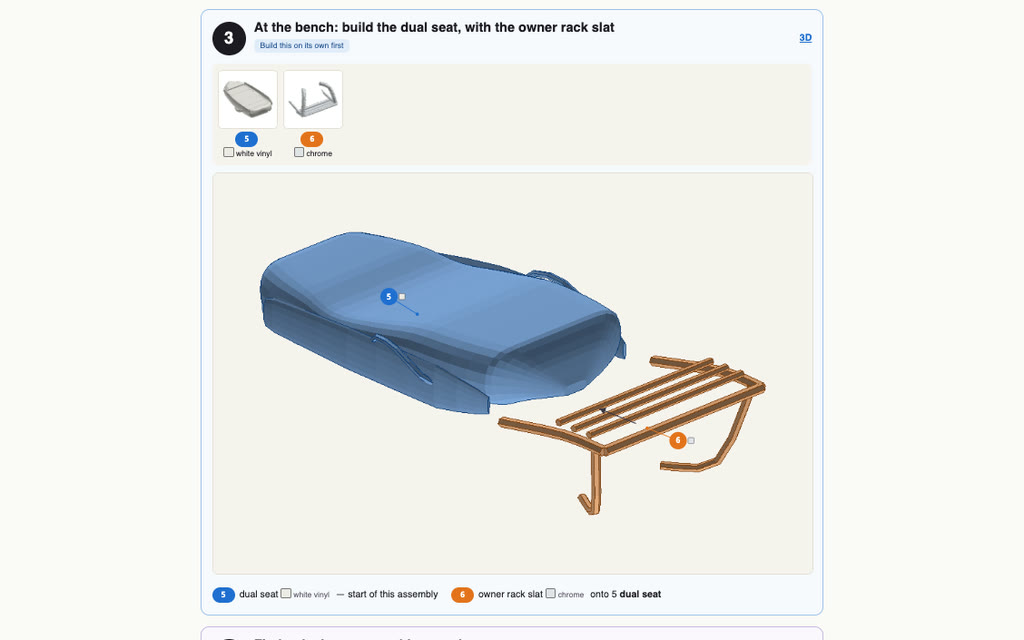
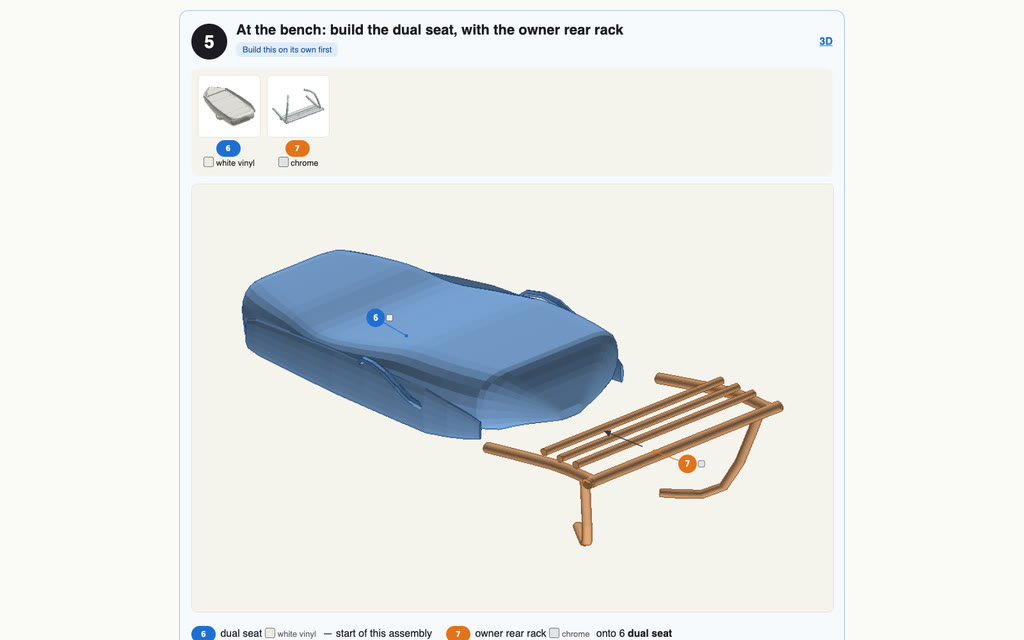
Vespa kit: the badge carrier moulded with its bars; kit plans name pieces
The Vespa's rebuilt badge carrier is held only by the two legshield bars,
so its kit left it loose; the plan now moulds it with them, and each cowl
with the lower return it lifts with: 28 pieces on 2 plates in 22 steps,
the same two loose receivers as before. A kit plan can now name a merged
piece (`names`): the Vespa's owner parts share only the word "owner", so
the booklet read "build the dual seat, with the owner". The kit's guide
and booklet pictures and the docs' counts follow.

diff --git a/construct_hologram/kit.py b/construct_hologram/kit.py
@@ -48,7 +48,7 @@ SLIVER_MM = 1.5          # thinner than this, a small piece is a chip and a long
 CHIP_MM = 6.0            # a bit the trimming cuts off a part (a rail's end standing proud of the leg it passes
                          # through), under this on every side, is moulded with the piece that cut it off
 FRAGILE_MM = 2.0         # thinner than this, a piece (chrome, trim) goes on with the details, last
-PLAN_KEYS = {"title", "merge", "keep", "clear", "opaque", "order", "notes"}
+PLAN_KEYS = {"title", "merge", "keep", "clear", "opaque", "order", "names", "notes"}
 
 
 CRITIC = """You are an experienced designer of plastic model kits (Revell, Tamiya), reviewing a kit that Construct
@@ -189,11 +189,19 @@ def load_plan(plan):
     if not all(isinstance(g, dict) and isinstance(g.get("name"), str) and isinstance(g.get("parts"), list)
                for g in doc.get("order", [])):
         raise KitError('plan.order: a list of sub-assemblies, each {"name": "...", "parts": [ids or patterns]}')
+    names = doc.get("names", {})
+    if not isinstance(names, dict) or not all(isinstance(k, str) and isinstance(v, str)
+                                              and re.fullmatch(r"[a-z0-9][a-z0-9-]*", v) for k, v in names.items()):
+        raise KitError('plan.names: {"part id or pattern": "piece-name"}, each name in lowercase words joined by "-"')
     return doc
 
 
 def _matches(pid, patterns):
     return any(fnmatch.fnmatchcase(pid, p) for p in patterns)
+
+
+def _matches_any(pids, pattern):
+    return any(fnmatch.fnmatchcase(pid, pattern) for pid in pids)
 
 
 # ---------------------------------------------------------------------------- making the kit
@@ -297,8 +305,11 @@ def make(scene, scale=SCALE, size=None, detail=DETAIL_MM, wall=WALL_MM, plan=Non
         for comp in comps:   # a merge that falls apart: each bit named for the part it mostly is; one that holds
             mem = members_of[pid]   # together, for what its parts are together ("side-west-*": the side west)
             inside = [m for m in mem if any(mm & own_vox[m].get(c, 0) for c, mm in comp.items())]
-            names.append(pid if len(mem) == 1 else _common(inside) if len(comps) == 1 and _common(inside) else
-                         max(mem, key=lambda m: sum(bin(mm & own_vox[m].get(c, 0)).count("1") for c, mm in comp.items())))
+            # the plan's own name for a piece holding one of its parts ("owner-rear-rack": what the ids share is
+            # only "owner"), else the parts' own
+            named = next((nm for pat, nm in plan.get("names", {}).items() if _matches_any(inside or mem, pat)), None)
+            names.append(named or (pid if len(mem) == 1 else _common(inside) if len(comps) == 1 and _common(inside) else
+                         max(mem, key=lambda m: sum(bin(mm & own_vox[m].get(c, 0)).count("1") for c, mm in comp.items()))))
         for k, comp in enumerate(comps):
             same = names.count(names[k])
             nth = names[:k + 1].count(names[k])

diff --git a/hermes/construct/_vendor/construct_hologram/kit.py b/hermes/construct/_vendor/construct_hologram/kit.py
@@ -48,7 +48,7 @@ SLIVER_MM = 1.5          # thinner than this, a small piece is a chip and a long
 CHIP_MM = 6.0            # a bit the trimming cuts off a part (a rail's end standing proud of the leg it passes
                          # through), under this on every side, is moulded with the piece that cut it off
 FRAGILE_MM = 2.0         # thinner than this, a piece (chrome, trim) goes on with the details, last
-PLAN_KEYS = {"title", "merge", "keep", "clear", "opaque", "order", "notes"}
+PLAN_KEYS = {"title", "merge", "keep", "clear", "opaque", "order", "names", "notes"}
 
 
 CRITIC = """You are an experienced designer of plastic model kits (Revell, Tamiya), reviewing a kit that Construct
@@ -189,11 +189,19 @@ def load_plan(plan):
     if not all(isinstance(g, dict) and isinstance(g.get("name"), str) and isinstance(g.get("parts"), list)
                for g in doc.get("order", [])):
         raise KitError('plan.order: a list of sub-assemblies, each {"name": "...", "parts": [ids or patterns]}')
+    names = doc.get("names", {})
+    if not isinstance(names, dict) or not all(isinstance(k, str) and isinstance(v, str)
+                                              and re.fullmatch(r"[a-z0-9][a-z0-9-]*", v) for k, v in names.items()):
+        raise KitError('plan.names: {"part id or pattern": "piece-name"}, each name in lowercase words joined by "-"')
     return doc
 
 
 def _matches(pid, patterns):
     return any(fnmatch.fnmatchcase(pid, p) for p in patterns)
+
+
+def _matches_any(pids, pattern):
+    return any(fnmatch.fnmatchcase(pid, pattern) for pid in pids)
 
 
 # ---------------------------------------------------------------------------- making the kit
@@ -297,8 +305,11 @@ def make(scene, scale=SCALE, size=None, detail=DETAIL_MM, wall=WALL_MM, plan=Non
         for comp in comps:   # a merge that falls apart: each bit named for the part it mostly is; one that holds
             mem = members_of[pid]   # together, for what its parts are together ("side-west-*": the side west)
             inside = [m for m in mem if any(mm & own_vox[m].get(c, 0) for c, mm in comp.items())]
-            names.append(pid if len(mem) == 1 else _common(inside) if len(comps) == 1 and _common(inside) else
-                         max(mem, key=lambda m: sum(bin(mm & own_vox[m].get(c, 0)).count("1") for c, mm in comp.items())))
+            # the plan's own name for a piece holding one of its parts ("owner-rear-rack": what the ids share is
+            # only "owner"), else the parts' own
+            named = next((nm for pat, nm in plan.get("names", {}).items() if _matches_any(inside or mem, pat)), None)
+            names.append(named or (pid if len(mem) == 1 else _common(inside) if len(comps) == 1 and _common(inside) else
+                         max(mem, key=lambda m: sum(bin(mm & own_vox[m].get(c, 0)).count("1") for c, mm in comp.items()))))
         for k, comp in enumerate(comps):
             same = names.count(names[k])
             nth = names[:k + 1].count(names[k])

diff --git a/skills/construct/scripts/construct_hologram/kit.py b/skills/construct/scripts/construct_hologram/kit.py
@@ -48,7 +48,7 @@ SLIVER_MM = 1.5          # thinner than this, a small piece is a chip and a long
 CHIP_MM = 6.0            # a bit the trimming cuts off a part (a rail's end standing proud of the leg it passes
                          # through), under this on every side, is moulded with the piece that cut it off
 FRAGILE_MM = 2.0         # thinner than this, a piece (chrome, trim) goes on with the details, last
-PLAN_KEYS = {"title", "merge", "keep", "clear", "opaque", "order", "notes"}
+PLAN_KEYS = {"title", "merge", "keep", "clear", "opaque", "order", "names", "notes"}
 
 
 CRITIC = """You are an experienced designer of plastic model kits (Revell, Tamiya), reviewing a kit that Construct
@@ -189,11 +189,19 @@ def load_plan(plan):
     if not all(isinstance(g, dict) and isinstance(g.get("name"), str) and isinstance(g.get("parts"), list)
                for g in doc.get("order", [])):
         raise KitError('plan.order: a list of sub-assemblies, each {"name": "...", "parts": [ids or patterns]}')
+    names = doc.get("names", {})
+    if not isinstance(names, dict) or not all(isinstance(k, str) and isinstance(v, str)
+                                              and re.fullmatch(r"[a-z0-9][a-z0-9-]*", v) for k, v in names.items()):
+        raise KitError('plan.names: {"part id or pattern": "piece-name"}, each name in lowercase words joined by "-"')
     return doc
 
 
 def _matches(pid, patterns):
     return any(fnmatch.fnmatchcase(pid, p) for p in patterns)
+
+
+def _matches_any(pids, pattern):
+    return any(fnmatch.fnmatchcase(pid, pattern) for pid in pids)
 
 
 # ---------------------------------------------------------------------------- making the kit
@@ -297,8 +305,11 @@ def make(scene, scale=SCALE, size=None, detail=DETAIL_MM, wall=WALL_MM, plan=Non
         for comp in comps:   # a merge that falls apart: each bit named for the part it mostly is; one that holds
             mem = members_of[pid]   # together, for what its parts are together ("side-west-*": the side west)
             inside = [m for m in mem if any(mm & own_vox[m].get(c, 0) for c, mm in comp.items())]
-            names.append(pid if len(mem) == 1 else _common(inside) if len(comps) == 1 and _common(inside) else
-                         max(mem, key=lambda m: sum(bin(mm & own_vox[m].get(c, 0)).count("1") for c, mm in comp.items())))
+            # the plan's own name for a piece holding one of its parts ("owner-rear-rack": what the ids share is
+            # only "owner"), else the parts' own
+            named = next((nm for pat, nm in plan.get("names", {}).items() if _matches_any(inside or mem, pat)), None)
+            names.append(named or (pid if len(mem) == 1 else _common(inside) if len(comps) == 1 and _common(inside) else
+                         max(mem, key=lambda m: sum(bin(mm & own_vox[m].get(c, 0)).count("1") for c, mm in comp.items()))))
         for k, comp in enumerate(comps):
             same = names.count(names[k])
             nth = names[:k + 1].count(names[k])

diff --git a/construct_hologram/test_printing.py b/construct_hologram/test_printing.py
@@ -435,6 +435,19 @@ class Kit(unittest.TestCase):
         shell = next(p for p in k["pieces"] if "shell" in p["parts"])
         self.assertEqual(shell["stage"], 1)   # the shell's, not the small tower's earlier stage
 
+    def test_a_plan_names_a_merged_piece_whose_parts_share_only_a_word(self):
+        # found on the Vespa's kit: the owner's rack and stays merged, and the piece was named "owner"
+        sc = scene_of(box("body", [0.2, 0.05, 0.1], [0, 0.025, 0]),
+                      box("owner-rear-rack", [0.1, 0.01, 0.04], [0, 0.055, 0]),
+                      box("owner-rack-slat-0", [0.1, 0.01, 0.01], [0, 0.065, 0]))
+        plan = {"merge": [["owner-rear-rack", "owner-rack-*"]]}
+        rack = lambda k: next(p for p in k["pieces"] if "owner-rear-rack" in p["parts"])
+        self.assertEqual(rack(kit_mod.make(sc, size=100, detail=0.5, plan=plan))["name"], "owner")
+        named = dict(plan, names={"owner-rear-rack": "owner-rear-rack"})
+        self.assertEqual(rack(kit_mod.make(sc, size=100, detail=0.5, plan=named))["name"], "owner-rear-rack")
+        with self.assertRaises(kit_mod.KitError):
+            kit_mod.make(sc, size=100, detail=0.5, plan=dict(plan, names={"owner-rear-rack": "The Rack"}))
+
     def test_the_fit_names_what_pokes_through_and_what_is_buried_not_what_is_set_in(self):
         from . import fit
         sc = scene_of(box("body", [0.2, 0.1, 0.1], [0, 0.05, 0]),

diff --git a/docs/for/a-kit-of-your-own.md b/docs/for/a-kit-of-your-own.md
@@ -6,9 +6,9 @@ or the ChatGPT app does the work ([how to set it up](in-the-apps.md)).
 
 <p align="center">
   <a href="https://rtmandreyev.github.io/construct/examples/vespa-gs150/kit/assembly.html"><img src="../media/kit-vespa-guide.gif" width="49%" alt="The Vespa kit's 3D guide stepping through its build: the body first, the seat and rack at the bench, then the wheels, fork and cowls"></a>
-  <a href="https://rtmandreyev.github.io/construct/examples/vespa-gs150/kit/booklet.html"><img src="../media/kit-vespa-booklet.jpg" width="49%" alt="Step 3 of the Vespa kit's booklet: the dual seat built at the bench with the owner's rack slat, each piece numbered and painted"></a>
+  <a href="https://rtmandreyev.github.io/construct/examples/vespa-gs150/kit/booklet.html"><img src="../media/kit-vespa-booklet.jpg" width="49%" alt="Step 5 of the Vespa kit's booklet: the dual seat built at the bench with the owner's rear rack, each piece numbered and painted"></a>
 </p>
-<p align="center"><sub>The <a href="https://rtmandreyev.github.io/construct/examples/vespa-gs150/">Vespa from <i>your vehicle</i></a> as a 1:12 kit: 30 pieces on 3 plates, 21 steps, 157 mm long.
+<p align="center"><sub>The <a href="https://rtmandreyev.github.io/construct/examples/vespa-gs150/">Vespa from <i>your vehicle</i></a> as a 1:12 kit: 28 pieces on 2 plates, 22 steps, 157 mm long.
 The 3D guide (left) and a page of the booklet (right). Open them yourself: <a href="https://rtmandreyev.github.io/construct/examples/vespa-gs150/kit/assembly.html">the kit in 3D</a> and <a href="https://rtmandreyev.github.io/construct/examples/vespa-gs150/kit/booklet.html">its booklet</a>.</sub></p>
 
 ## Our example, start to finish
@@ -38,8 +38,8 @@ rack and the wheels at the bench, the cowls hung last. The plan it wrote is
 [kit-plan.json](../../examples/vespa-gs150/kit-plan.json). Its checks leave a few notes for the builder, said in the
 booklet: some joints with a gap under a millimetre (a drop of glue fills them), two small cowl tabs to fit after the
 cowls, and a few specks too small to print, left off. (Since the owner's bars were rebuilt as continuous tubes in
-1.2.1, the same plan makes 30 pieces on 3 plates in 21 steps; the badge carrier, now held only by the legshield bars
-that lift with the cowls, and the spare-wheel cowl's lower return come as loose pieces to glue in place.)
+1.2.1, the plan moulds the badge carrier with the two legshield bars it is fixed to, and each cowl with its lower
+return, and names those pieces: 28 pieces on 2 plates in 22 steps.)
 
 **What you get:** `booklet.html` (open it and print it), `assembly.html` (the steps in 3D, turn them in your
 browser), and a `.3mf` file per plate for your printer's software (PrusaSlicer, Bambu Studio, Cura), plus every
@@ -64,7 +64,7 @@ Every kit here, to open in your browser or print:
 | Yamaha CFX piano, 1:12 | 54 | [open](https://rtmandreyev.github.io/construct/examples/yamaha-cfx/kit/assembly.html) | [open](https://rtmandreyev.github.io/construct/examples/yamaha-cfx/kit/booklet.html) | [.zip](https://github.com/rtmandreyev/construct/releases/latest/download/construct-kit-yamaha-cfx.zip) |
 | Tompion's year-going clock, 1:12 | 34 | [open](https://rtmandreyev.github.io/construct/examples/tompion-year-going-clock/kit/assembly.html) | [open](https://rtmandreyev.github.io/construct/examples/tompion-year-going-clock/kit/booklet.html) | [.zip](https://github.com/rtmandreyev/construct/releases/latest/download/construct-kit-tompion-year-going-clock.zip) |
 | VW T1 Samba bus, 1:16 | 98 | [open](https://rtmandreyev.github.io/construct/examples/volkswagen-t1-samba/kit/assembly.html) | [open](https://rtmandreyev.github.io/construct/examples/volkswagen-t1-samba/kit/booklet.html) | [.zip](https://github.com/rtmandreyev/construct/releases/latest/download/construct-kit-volkswagen-t1-samba.zip) |
-| Vespa GS 150, an owner's scooter, 1:12 | 30 | [open](https://rtmandreyev.github.io/construct/examples/vespa-gs150/kit/assembly.html) | [open](https://rtmandreyev.github.io/construct/examples/vespa-gs150/kit/booklet.html) | [.zip](https://github.com/rtmandreyev/construct/releases/latest/download/construct-kit-vespa-gs150.zip) |
+| Vespa GS 150, an owner's scooter, 1:12 | 28 | [open](https://rtmandreyev.github.io/construct/examples/vespa-gs150/kit/assembly.html) | [open](https://rtmandreyev.github.io/construct/examples/vespa-gs150/kit/booklet.html) | [.zip](https://github.com/rtmandreyev/construct/releases/latest/download/construct-kit-vespa-gs150.zip) |
 
 ## Do it with your own thing
 

diff --git a/docs/for/makers.md b/docs/for/makers.md
@@ -43,7 +43,7 @@ booklet and the 3D guide):
 | Yamaha CFX piano, 1:12 | 54 | [open](https://rtmandreyev.github.io/construct/examples/yamaha-cfx/kit/assembly.html) | [open](https://rtmandreyev.github.io/construct/examples/yamaha-cfx/kit/booklet.html) | [.zip](https://github.com/rtmandreyev/construct/releases/latest/download/construct-kit-yamaha-cfx.zip) |
 | Tompion's year-going clock, 1:12 | 34 | [open](https://rtmandreyev.github.io/construct/examples/tompion-year-going-clock/kit/assembly.html) | [open](https://rtmandreyev.github.io/construct/examples/tompion-year-going-clock/kit/booklet.html) | [.zip](https://github.com/rtmandreyev/construct/releases/latest/download/construct-kit-tompion-year-going-clock.zip) |
 | VW T1 Samba bus, 1:16 | 98 | [open](https://rtmandreyev.github.io/construct/examples/volkswagen-t1-samba/kit/assembly.html) | [open](https://rtmandreyev.github.io/construct/examples/volkswagen-t1-samba/kit/booklet.html) | [.zip](https://github.com/rtmandreyev/construct/releases/latest/download/construct-kit-volkswagen-t1-samba.zip) |
-| Vespa GS 150, an owner's scooter, 1:12 | 30 | [open](https://rtmandreyev.github.io/construct/examples/vespa-gs150/kit/assembly.html) | [open](https://rtmandreyev.github.io/construct/examples/vespa-gs150/kit/booklet.html) | [.zip](https://github.com/rtmandreyev/construct/releases/latest/download/construct-kit-vespa-gs150.zip) |
+| Vespa GS 150, an owner's scooter, 1:12 | 28 | [open](https://rtmandreyev.github.io/construct/examples/vespa-gs150/kit/assembly.html) | [open](https://rtmandreyev.github.io/construct/examples/vespa-gs150/kit/booklet.html) | [.zip](https://github.com/rtmandreyev/construct/releases/latest/download/construct-kit-vespa-gs150.zip) |
 | Villa Savoye, made in Hermes, 1:115 | 30 | [open](https://rtmandreyev.github.io/construct/examples/villa-savoye/kit/assembly.html) | [open](https://rtmandreyev.github.io/construct/examples/villa-savoye/kit/booklet.html) | [.zip](https://github.com/rtmandreyev/construct/releases/latest/download/construct-kit-villa-savoye.zip) |
 
 ## Your first kit, step by step

diff --git a/CHANGELOG.md b/CHANGELOG.md
@@ -3,7 +3,7 @@
 ## 1.2.1 — 2026-11-07
 
 Examples polish: every gallery example checked again, by measurement and in the solid view, for slips the light
-forgives. No library code changed.
+forgives. One small kit-plan addition; nothing else in the library changed.
 
 - **Measured, not eyeballed:** every example's compiled surfaces were checked for parts that float clear of
   everything (none at rest), articulations that nest the wrong way round, glass that the solid view, exports and
@@ -13,7 +13,11 @@ forgives. No library code changed.
   they moved about their closed-deck pivots. They now move after the deck. The display covers' dark fill hid the
   display text from above; the covers are drawn as outlines in the light and stay glass in the solid view.
 - **Vespa GS 150:** the owner's chrome bars, rack, mudguard hoop and badge carrier rebuilt as continuous tubes that
-  meet the body and clear the factory parts.
+  meet the body and clear the factory parts. Its kit follows: the badge carrier, held only by the two legshield bars,
+  is moulded with them, each cowl with the lower return it lifts with; 28 pieces on 2 plates in 22 steps.
+- **Kit plans name pieces** (`names` in `kit-plan.json`, `{"owner-rear-rack": "owner-rear-rack"}`): a merged piece is
+  named for what its parts' ids share, and the Vespa's owner parts share only "owner" (its booklet read "build the
+  dual seat, with the owner"); a plan can now name such a piece by any part in it.
 - **Leica M3:** the lens's name ring capped the front element and its inscription was cut by the lens's lip; it is a
   ring on the recessed step now, inscribed *Summicron* and *5 cm 1:2*. The ASA/DIN reminder read upside down; the
   vulcanite ran past the flat front into the air.

diff --git a/README.md b/README.md
@@ -135,7 +135,7 @@ every guess a deeper amber the more firmly it is held; and the same Duomo as a s
   <img src="docs/media/freecad-piano-leica.jpg" width="49%" alt="The Yamaha CFX and the Leica M3 in FreeCAD as true CAD shapes">
 </p>
 
-**Model kits.** Four constructs as kits to print, glue and paint: the Yamaha CFX piano (1:12, 54 pieces), Tompion's year-going clock (1:12, 34 pieces), the VW T1 Samba (1:16, 98 pieces) and an owner's Vespa GS 150 (1:12, 30 pieces), each with its steps in 3D and a booklet to print. Open them in your browser, or download their plates: [the kits in the gallery](https://rtmandreyev.github.io/construct/#kits). [Makers →](docs/for/makers.md)
+**Model kits.** Four constructs as kits to print, glue and paint: the Yamaha CFX piano (1:12, 54 pieces), Tompion's year-going clock (1:12, 34 pieces), the VW T1 Samba (1:16, 98 pieces) and an owner's Vespa GS 150 (1:12, 28 pieces), each with its steps in 3D and a booklet to print. Open them in your browser, or download their plates: [the kits in the gallery](https://rtmandreyev.github.io/construct/#kits). [Makers →](docs/for/makers.md)
 
 <p align="center">
   <a href="https://rtmandreyev.github.io/construct/examples/yamaha-cfx/kit/assembly.html"><img src="docs/media/kit-cfx-guide.gif" width="32%" alt="The Yamaha CFX piano kit's 3D guide at 1:12: the keyboard built at the bench, the piano ghosted around it"></a>

diff --git a/docs/PRINTING.md b/docs/PRINTING.md
@@ -192,7 +192,8 @@ its host's face. [A longcase clock, end to end](END-TO-END.md) shows one, step b
 **A critic, as for a construct.** `construct kit --critic` prints a kit designer's brief: a critic (a fresh
 agent or model) reads `kit.json` and the booklet's pictures and answers with a plan, parts to merge into one
 piece, small parts to keep, clear parts, parts that are not clear though their names say glass (`opaque`: a
-chrome mirror glass), which `--plan kit-plan.json` applies to the next build. A merged piece is built at its
+chrome mirror glass) and, where a merged piece's parts share only a word, its name (`names`:
+`{"owner-rear-rack": "owner-rear-rack"}`), which `--plan kit-plan.json` applies to the next build. A merged piece is built at its
 largest part's stage. What holds the glass (a windscreen frame, a window seal, a lens's ring or button) is never taken for glass.
 
 ## Printers: the largest print and every detail
